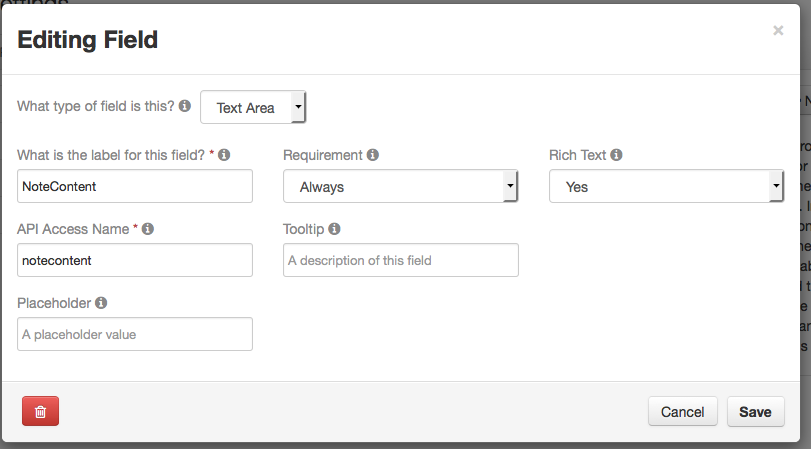
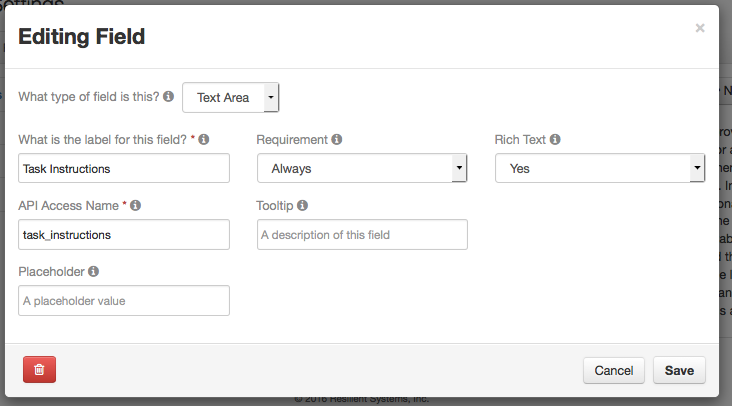
Fix errors in Readme.md files

diff --git a/python/examples/ActionExample/taskadd/README.md b/python/examples/ActionExample/taskadd/README.md
@@ -1,8 +1,14 @@
-# Action handler for adding a note to the incident via a manual action field
+# Action handler for adding a task to the incident
+Expects three action fields to be defined.  *Task Instructions* as a Text Area, *Task Name* as a Text field, and
+*Task Phase* as a Text field.
+
+The user is expected to type the phase in correctly (a production implementation would create a select field and
+put the configurations phases into the field, however since this is generic and can run against any organization 
+definition, manual entry is chosen)
 
 ## Execution
 ```
-python noteadd.py
+python taskadd.py
 ```
 OR
 ```
@@ -41,11 +47,13 @@ The destination queue for the action.
 
 
 ## Resilient Configuration
-The default configuration expects an action queue named *milestoneadd*, and an automatic action for an incident named 
-*add_mile_stone_on_phase_change*.  The automatic action should have have a condition of the the field Phase changing.
+The default configuration expects an action queue named *add_task*, and a manual action for an incident named 
+*Add Task on Manual Action*. Three fields as noted before are expected 
 ### Messaged Destination 
 ![message destination](Documents/messagedestination.png)
 ### Manual Action
 ![Manual Action](Documents/automaticaction.png)
-### Action Field definition
+### Action Fields definition
 ![Manual Action Field](Documents/actionfield.png)
+![Manual Action Field](Documents/actionfield1.png)
+![Manual Action Field](Documents/actionfield2.png)

diff --git a/python/examples/ActionExample/groupadd/README.md b/python/examples/ActionExample/groupadd/README.md
@@ -47,8 +47,8 @@ Configuration information for the action.
 + incidenttype= incident type to trigger the addition of membership.
 
 ## Resilient Configuration
-The default configuration expects an action queue named *csirt_action*, and an automatic action for an incident named 
-*csirtaction*.  The automatic action should have have a condition of the Boolean field *csirt_action_required* being changed to Yes.
+The default configuration expects an action queue named *Group add on incident type*, and an automatic action for an incident named 
+*group add*.  The automatic action should have have a condition of the Boolean field *csirt_action_required* being changed to Yes.
 ### Custom incident type definition
 ![Incident Type definition](Documents/incidenttype.png)
 ### Messaged Destination 

diff --git a/python/examples/ActionExample/noteadd/README.md b/python/examples/ActionExample/noteadd/README.md
@@ -41,8 +41,8 @@ The destination queue for the action.
 
 
 ## Resilient Configuration
-The default configuration expects an action queue named *milestoneadd*, and an automatic action for an incident named 
-*add_mile_stone_on_phase_change*.  The automatic action should have have a condition of the the field Phase changing.
+The default configuration expects an action queue named *noteadd*, and a manual action for an incident named 
+*Add Note on Manual Action*. The action expects a single text area field called "NoteContent" 
 ### Messaged Destination 
 ![message destination](Documents/messagedestination.png)
 ### Manual Action
